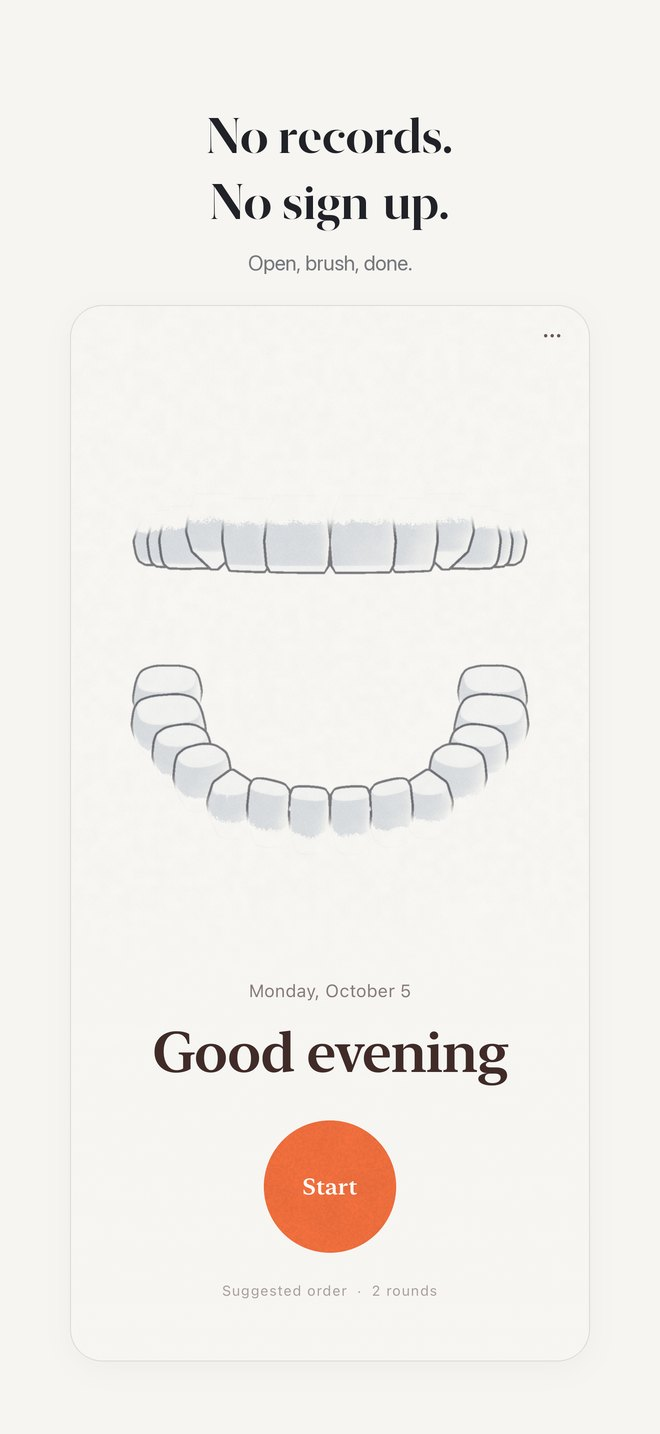
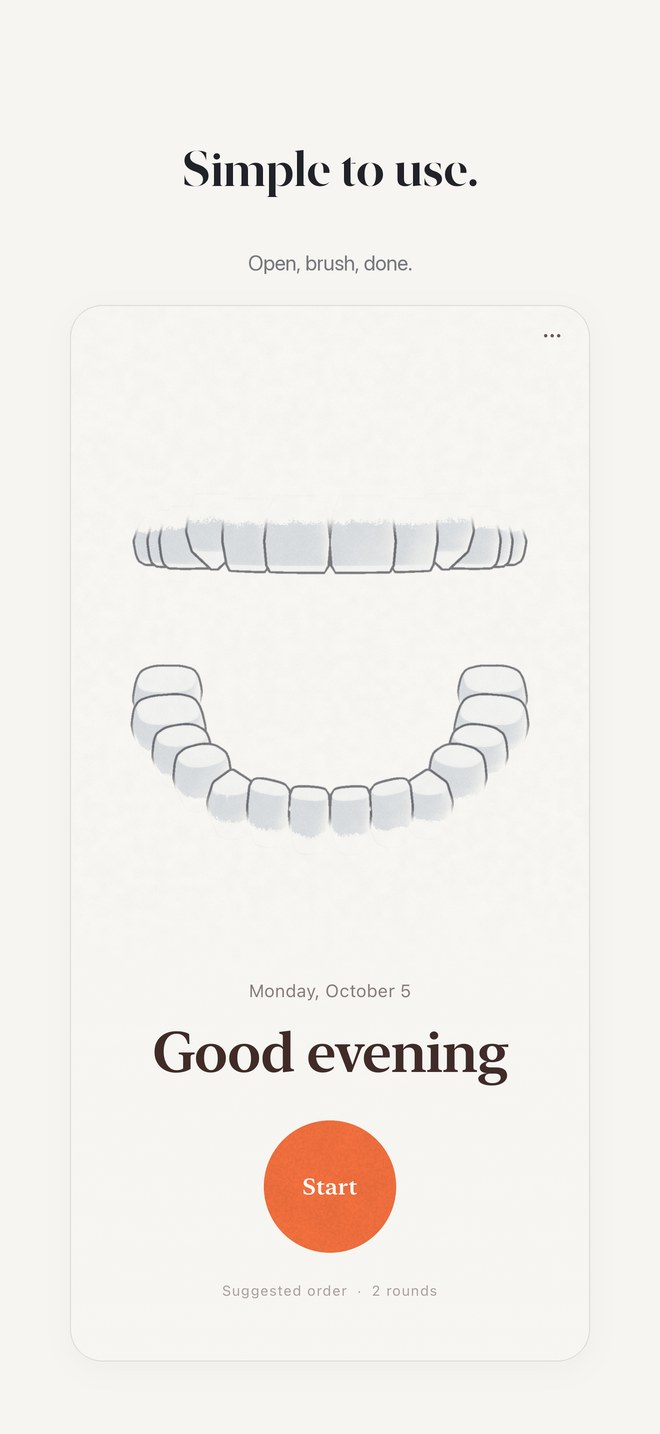
Add files via upload

Changed region(s): [[0.2727, 0.0614, 0.697, 0.1841]]

diff --git a/support.html b/support.html
@@ -4,9 +4,9 @@
 <meta charset="utf-8">
 <meta name="viewport" content="width=device-width, initial-scale=1">
 <title>サポート — ハミガ記</title>
-<meta name="description" content="どこまでみがいたかを覚えておく歯みがきアプリ。1か所ずつ、きまった時間でつぎへ。記録なし、ログインなし。">
+<meta name="description" content="どこまでみがいたかを覚えておく歯みがきアプリ。1か所ずつ、きまった時間でつぎへ。">
 <meta property="og:title" content="サポート — ハミガ記">
-<meta property="og:description" content="どこまでみがいたかを覚えておく歯みがきアプリ。1か所ずつ、きまった時間でつぎへ。記録なし、ログインなし。">
+<meta property="og:description" content="どこまでみがいたかを覚えておく歯みがきアプリ。1か所ずつ、きまった時間でつぎへ。">
 <meta property="og:image" content="assets/ja_1.jpg">
 <link rel="icon" href="assets/favicon.png">
 <link rel="apple-touch-icon" href="assets/apple-touch-icon.png">
@@ -17,14 +17,14 @@
 <header class="top"><a class="brand" href="./"><img src="assets/icon_360.png" alt="">ハミガ記</a><nav><a href="support.html">サポート</a><a href="privacy.html">プライバシー</a><a href="en/">English</a></nav></header>
 <article class="doc">
 <h1>サポート</h1>
-<p>ハミガ記についてのよくある質問です。ほかにお困りのことがあれば、下のメールまでご連絡ください。</p>
-<dl><dt>タイマーの時間を変えたい</dt><dd>画面の右上「…」から設定を開き、「タイマー」の − と ＋ で、1か所 5〜60秒の間で変えられます。タイマーを使わない時は「自動でつぎの場所へ」を切ってください。</dd><dt>音が鳴らない／鳴らしたくない</dt><dd>設定の「合図」で「ならす」「ふるえる」を切り替えられます。端末の音量も確かめてください。</dd><dt>みがく順番を変えたい</dt><dd>設定の「みがく順番」で「おまかせ」と「自分できめる」を選べます。自分の順番は「順番をきめなおす」から作り直せます。</dd><dt>途中でやめたい</dt><dd>左上の × を押すと「やめる」に変わります。もう一度押すと、はじめの画面にもどります。</dd><dt>英語で使いたい</dt><dd>設定のいちばん下の「ことば」で English を選べます。</dd><dt>記録は残りますか</dt><dd>残りません。みがき終わったら、それでおしまいです。</dd></dl>
+<p>ハミガ記に関するよくあるご質問です。解決しない場合は、下記のお問い合わせ先までご連絡ください。</p>
+<dl><dt>タイマーの時間を変更するには</dt><dd>画面右上の「…」から設定を開き、「タイマー」の「−」「＋」で、1か所あたり5秒から60秒の範囲で変更できます。タイマーを使用しない場合は、「自動でつぎの場所へ」をオフにしてください。</dd><dt>合図の音や振動を止めるには</dt><dd>設定の「合図」で、「ならす」「ふるえる」をそれぞれオフにできます。音が鳴らない場合は、端末の音量もご確認ください。</dd><dt>みがく順番を変更するには</dt><dd>設定の「みがく順番」で、「おまかせ」または「自分できめる」を選択できます。ご自身で決めた順番は、「順番をきめなおす」から作り直すことができます。</dd><dt>途中でやめるには</dt><dd>画面左上の「×」を押すと「やめる」に変わります。もう一度押すと、はじめの画面に戻ります。</dd><dt>通知を止めるには</dt><dd>端末の設定アプリの「通知」から、「ハミガ記」の通知をオフにしてください。</dd><dt>表示言語を英語にするには</dt><dd>設定の最下部にある「ことば」で「English」を選択してください。</dd><dt>利用の記録は残りますか</dt><dd>本アプリには、利用の履歴を表示する機能はありません。</dd></dl>
 <h2>ご利用にあたって</h2>
-<p>本アプリは、歯みがきの場所と時間の目安をお知らせするものです。汚れの落ち具合を確かめたり、歯や歯ぐきの状態を判断したりするものではありません。歯や歯ぐきのことで気になることがある時は、歯科医院にご相談ください。</p>
+<p>本アプリは、歯みがきの場所と時間の目安をお知らせするものです。汚れの落ち具合を確認したり、歯や歯ぐきの状態を判断したりするものではありません。歯や歯ぐきについて気になる点がある場合は、歯科医院にご相談ください。</p>
 <h2>お問い合わせ</h2>
-<p><a href="mailto:ys.andcraft@gmail.com">ys.andcraft@gmail.com</a></p>
+<p>Ys andcraft<br><a href="mailto:ys.andcraft@gmail.com">ys.andcraft@gmail.com</a></p>
 </article>
-<footer><a href="support.html">サポート</a><a href="privacy.html">プライバシーポリシー</a><a href="press.html">報道関係の方へ</a><br>© 2026 ハミガ記</footer>
+<footer><a href="support.html">サポート</a><a href="privacy.html">プライバシーポリシー</a><br>© 2026 ハミガ記</footer>
 </div>
 </body>
 </html>

diff --git a/privacy.html b/privacy.html
@@ -4,9 +4,9 @@
 <meta charset="utf-8">
 <meta name="viewport" content="width=device-width, initial-scale=1">
 <title>プライバシーポリシー — ハミガ記</title>
-<meta name="description" content="どこまでみがいたかを覚えておく歯みがきアプリ。1か所ずつ、きまった時間でつぎへ。記録なし、ログインなし。">
+<meta name="description" content="どこまでみがいたかを覚えておく歯みがきアプリ。1か所ずつ、きまった時間でつぎへ。">
 <meta property="og:title" content="プライバシーポリシー — ハミガ記">
-<meta property="og:description" content="どこまでみがいたかを覚えておく歯みがきアプリ。1か所ずつ、きまった時間でつぎへ。記録なし、ログインなし。">
+<meta property="og:description" content="どこまでみがいたかを覚えておく歯みがきアプリ。1か所ずつ、きまった時間でつぎへ。">
 <meta property="og:image" content="assets/ja_1.jpg">
 <link rel="icon" href="assets/favicon.png">
 <link rel="apple-touch-icon" href="assets/apple-touch-icon.png">
@@ -17,20 +17,22 @@
 <header class="top"><a class="brand" href="./"><img src="assets/icon_360.png" alt="">ハミガ記</a><nav><a href="support.html">サポート</a><a href="privacy.html">プライバシー</a><a href="en/">English</a></nav></header>
 <article class="doc">
 <h1>プライバシーポリシー</h1>
-<p class="meta">最終更新：2026年10月5日</p>
-<p>このページは、ハミガ記（以下「本アプリ」）における情報の取り扱いについて説明するものです。</p>
-<h2>集める情報</h2>
-<p>本アプリは、個人情報を含め、利用者に関する情報を一切集めません。アカウントの登録もありません。</p>
-<h2>端末に保存する情報</h2>
-<p>色・タイマー・みがく回数・合図・みがく順番・ことばの設定は、次に開いた時のために、利用者の端末の中にだけ保存します。外部に送ることはありません。アプリを削除すると、これらの設定も消えます。</p>
-<h2>通信・広告・第三者のサービス</h2>
-<p>本アプリは、通信を行いません。広告、利用状況の解析、第三者のサービスも使っていません。設定画面からこのページなどを開く時は、ブラウザで表示します。</p>
-<h2>このポリシーの変更</h2>
-<p>内容を変更する時は、このページを更新します。</p>
-<h2>提供者・お問い合わせ</h2>
-<p>Soichiro Yokokawa<br><a href="mailto:ys.andcraft@gmail.com">ys.andcraft@gmail.com</a></p>
+<p class="meta">最終更新日：2026年10月12日</p>
+<p>Ys andcraft（以下「当方」）は、iPhone 向けアプリケーション「ハミガ記」（以下「本アプリ」）における利用者の情報の取り扱いについて、以下のとおり定めます。</p>
+<h2>1. 情報の収集</h2>
+<p>本アプリは、氏名、メールアドレス、位置情報その他の個人情報を含め、利用者に関する情報を収集しません。また、本アプリの利用にあたり、アカウントの登録は必要ありません。</p>
+<h2>2. 端末内に保存する情報</h2>
+<p>本アプリは、その動作に必要な情報（本アプリの設定、および通知の時刻を定めるための本アプリの利用時刻）を、利用者の端末内にのみ保存します。これらの情報を外部へ送信することはありません。これらの情報は、本アプリを端末から削除することにより消去されます。</p>
+<h2>3. 通知</h2>
+<p>本アプリは、利用者が許可した場合に限り、端末内で作成した通知を表示します。通知の許可は、端末の設定アプリからいつでも変更できます。</p>
+<h2>4. 外部との通信および第三者のサービス</h2>
+<p>本アプリは、外部との通信を行いません。また、広告、利用状況の解析その他の第三者のサービスを利用していません。なお、本アプリの設定画面から本ポリシー等のウェブページを開く場合、当該ページは利用者の端末のブラウザで表示されます。</p>
+<h2>5. 本ポリシーの変更</h2>
+<p>当方は、必要に応じて本ポリシーを変更することがあります。変更後の内容は、本ページに掲載した時点から効力を生じるものとします。</p>
+<h2>6. お問い合わせ</h2>
+<p>本ポリシーに関するお問い合わせは、以下までご連絡ください。<br>Ys andcraft<br><a href="mailto:ys.andcraft@gmail.com">ys.andcraft@gmail.com</a></p>
 </article>
-<footer><a href="support.html">サポート</a><a href="privacy.html">プライバシーポリシー</a><a href="press.html">報道関係の方へ</a><br>© 2026 ハミガ記</footer>
+<footer><a href="support.html">サポート</a><a href="privacy.html">プライバシーポリシー</a><br>© 2026 ハミガ記</footer>
 </div>
 </body>
 </html>

diff --git a/en/support.html b/en/support.html
@@ -4,9 +4,9 @@
 <meta charset="utf-8">
 <meta name="viewport" content="width=device-width, initial-scale=1">
 <title>Support — BrushMark</title>
-<meta name="description" content="A toothbrushing app that remembers where you&#x27;ve brushed. One spot at a time, then on to the next. No records, no sign-up.">
+<meta name="description" content="A toothbrushing app that remembers where you&#x27;ve brushed. One spot at a time, then on to the next.">
 <meta property="og:title" content="Support — BrushMark">
-<meta property="og:description" content="A toothbrushing app that remembers where you&#x27;ve brushed. One spot at a time, then on to the next. No records, no sign-up.">
+<meta property="og:description" content="A toothbrushing app that remembers where you&#x27;ve brushed. One spot at a time, then on to the next.">
 <meta property="og:image" content="../assets/en_1.jpg">
 <link rel="icon" href="../assets/favicon.png">
 <link rel="apple-touch-icon" href="../assets/apple-touch-icon.png">
@@ -17,14 +17,14 @@
 <header class="top"><a class="brand" href="./"><img src="../assets/icon_360.png" alt="">BrushMark</a><nav><a href="support.html">Support</a><a href="privacy.html">Privacy</a><a href="../">日本語</a></nav></header>
 <article class="doc">
 <h1>Support</h1>
-<p>Common questions about BrushMark. For anything else, please email us.</p>
-<dl><dt>How do I change the timer?</dt><dd>Open Settings from the ⋯ at the top right. Under Timer, use − and + to choose 5 to 60 seconds per spot. To brush without the timer, turn off "Move on automatically".</dd><dt>I can't hear the sound / I don't want it</dt><dd>Turn Sound and Vibrate on or off under Signals in Settings. Please also check your device volume.</dd><dt>How do I change the brushing order?</dt><dd>Under Brushing order in Settings, choose Suggested or Set my own. You can redo your own order with "Set it again".</dd><dt>How do I stop in the middle?</dt><dd>Tap the × at the top left; it turns into Stop. Tap again to go back to the start screen.</dd><dt>Can I use it in Japanese?</dt><dd>Yes. Choose 日本語 under Language at the bottom of Settings.</dd><dt>Does it keep records?</dt><dd>No. When you're done, you're done.</dd></dl>
-<h2>About this app</h2>
-<p>BrushMark shows you where to brush and for how long, as a guide. It does not check how clean your teeth are or assess the health of your teeth or gums. If you have any concerns about your teeth or gums, please see a dentist.</p>
+<p>Frequently asked questions about BrushMark. If your question is not answered here, please contact us at the address below.</p>
+<dl><dt>How do I change the timer?</dt><dd>Open Settings from the "⋯" button at the top right. Under Timer, use "−" and "+" to set between 5 and 60 seconds per spot. To brush without the timer, turn off "Move on automatically".</dd><dt>How do I turn off sounds or vibration?</dt><dd>Under Signals in Settings, turn off Sound and/or Vibrate. If you cannot hear any sound, please also check your device's volume.</dd><dt>How do I change the brushing order?</dt><dd>Under Brushing order in Settings, select Suggested or Set my own. You can recreate your own order with "Set it again".</dd><dt>How do I stop partway through?</dt><dd>Tap the "×" at the top left; it changes to "Stop". Tap it again to return to the start screen.</dd><dt>How do I turn off reminders?</dt><dd>Turn off notifications for BrushMark under Notifications in your device's Settings app.</dd><dt>How do I switch the language to Japanese?</dt><dd>Select "日本語" under Language at the bottom of Settings.</dd><dt>Does the App keep a history?</dt><dd>The App has no feature for displaying a usage history.</dd></dl>
+<h2>About This App</h2>
+<p>BrushMark provides guidance on where and for how long to brush. It does not check how clean your teeth are, nor does it assess the condition of your teeth or gums. If you have any concerns about your teeth or gums, please consult a dentist.</p>
 <h2>Contact</h2>
-<p><a href="mailto:ys.andcraft@gmail.com">ys.andcraft@gmail.com</a></p>
+<p>Ys andcraft<br><a href="mailto:ys.andcraft@gmail.com">ys.andcraft@gmail.com</a></p>
 </article>
-<footer><a href="support.html">Support</a><a href="privacy.html">Privacy Policy</a><a href="press.html">Press</a><br>© 2026 BrushMark</footer>
+<footer><a href="support.html">Support</a><a href="privacy.html">Privacy Policy</a><br>© 2026 BrushMark</footer>
 </div>
 </body>
 </html>

diff --git a/en/privacy.html b/en/privacy.html
@@ -4,9 +4,9 @@
 <meta charset="utf-8">
 <meta name="viewport" content="width=device-width, initial-scale=1">
 <title>Privacy Policy — BrushMark</title>
-<meta name="description" content="A toothbrushing app that remembers where you&#x27;ve brushed. One spot at a time, then on to the next. No records, no sign-up.">
+<meta name="description" content="A toothbrushing app that remembers where you&#x27;ve brushed. One spot at a time, then on to the next.">
 <meta property="og:title" content="Privacy Policy — BrushMark">
-<meta property="og:description" content="A toothbrushing app that remembers where you&#x27;ve brushed. One spot at a time, then on to the next. No records, no sign-up.">
+<meta property="og:description" content="A toothbrushing app that remembers where you&#x27;ve brushed. One spot at a time, then on to the next.">
 <meta property="og:image" content="../assets/en_1.jpg">
 <link rel="icon" href="../assets/favicon.png">
 <link rel="apple-touch-icon" href="../assets/apple-touch-icon.png">
@@ -17,20 +17,22 @@
 <header class="top"><a class="brand" href="./"><img src="../assets/icon_360.png" alt="">BrushMark</a><nav><a href="support.html">Support</a><a href="privacy.html">Privacy</a><a href="../">日本語</a></nav></header>
 <article class="doc">
 <h1>Privacy Policy</h1>
-<p class="meta">Last updated: October 5, 2026</p>
-<p>This page explains how BrushMark ("the app") handles information.</p>
-<h2>Information we collect</h2>
-<p>The app does not collect any information about you, including personal information. There is no account.</p>
-<h2>Information stored on your device</h2>
-<p>Your settings (color, timer, rounds, signals, brushing order and language) are saved only on your device so they are there next time. They are never sent anywhere. Deleting the app also deletes these settings.</p>
-<h2>Network, ads and third-party services</h2>
-<p>The app does not connect to the internet. It uses no ads, no analytics and no third-party services. Pages such as this one, when opened from Settings, are shown in your browser.</p>
-<h2>Changes to this policy</h2>
-<p>If this policy changes, we will update this page.</p>
-<h2>Developer and contact</h2>
-<p>Soichiro Yokokawa<br><a href="mailto:ys.andcraft@gmail.com">ys.andcraft@gmail.com</a></p>
+<p class="meta">Last updated: October 12, 2026</p>
+<p>This Privacy Policy describes how Ys andcraft ("we") handles information in the iPhone application BrushMark (the "App").</p>
+<h2>1. Information We Collect</h2>
+<p>The App does not collect any information about its users, including personal information such as names, email addresses or location. No account is required to use the App.</p>
+<h2>2. Information Stored on Your Device</h2>
+<p>The App stores the information required for its operation (the App's settings, and the times at which the App is used, in order to determine when to show reminders) solely on your device. This information is not transmitted to any external party. It is deleted when the App is removed from your device.</p>
+<h2>3. Notifications</h2>
+<p>The App displays notifications created on your device only if you have granted permission. You may change this permission at any time in your device's Settings app.</p>
+<h2>4. Network Communication and Third-Party Services</h2>
+<p>The App does not communicate with any external server, and it does not use advertising, analytics or any other third-party services. Web pages such as this Privacy Policy, when opened from the App's settings, are displayed in your device's browser.</p>
+<h2>5. Changes to This Policy</h2>
+<p>We may revise this Privacy Policy as necessary. Any revision takes effect when it is posted on this page.</p>
+<h2>6. Contact</h2>
+<p>For inquiries regarding this Privacy Policy, please contact:<br>Ys andcraft<br><a href="mailto:ys.andcraft@gmail.com">ys.andcraft@gmail.com</a></p>
 </article>
-<footer><a href="support.html">Support</a><a href="privacy.html">Privacy Policy</a><a href="press.html">Press</a><br>© 2026 BrushMark</footer>
+<footer><a href="support.html">Support</a><a href="privacy.html">Privacy Policy</a><br>© 2026 BrushMark</footer>
 </div>
 </body>
 </html>

diff --git a/index.html b/index.html
@@ -4,9 +4,9 @@
 <meta charset="utf-8">
 <meta name="viewport" content="width=device-width, initial-scale=1">
 <title>ハミガ記 — みがいたところを忘れない歯みがき</title>
-<meta name="description" content="どこまでみがいたかを覚えておく歯みがきアプリ。1か所ずつ、きまった時間でつぎへ。記録なし、ログインなし。">
+<meta name="description" content="どこまでみがいたかを覚えておく歯みがきアプリ。1か所ずつ、きまった時間でつぎへ。">
 <meta property="og:title" content="ハミガ記 — みがいたところを忘れない歯みがき">
-<meta property="og:description" content="どこまでみがいたかを覚えておく歯みがきアプリ。1か所ずつ、きまった時間でつぎへ。記録なし、ログインなし。">
+<meta property="og:description" content="どこまでみがいたかを覚えておく歯みがきアプリ。1か所ずつ、きまった時間でつぎへ。">
 <meta property="og:image" content="assets/ja_1.jpg">
 <link rel="icon" href="assets/favicon.png">
 <link rel="apple-touch-icon" href="assets/apple-touch-icon.png">
@@ -22,8 +22,8 @@
 <span class="badge soon">まもなく App Store で公開</span>
 </section>
 <section class="shots"><img src="assets/ja_1.jpg" alt="" loading="lazy"><img src="assets/ja_2.jpg" alt="" loading="lazy"><img src="assets/ja_3.jpg" alt="" loading="lazy"><img src="assets/ja_4.jpg" alt="" loading="lazy"><img src="assets/ja_5.jpg" alt="" loading="lazy"><img src="assets/ja_6.jpg" alt="" loading="lazy"></section>
-<ul class="points"><li>みがいたところに、色がつく。どこまでみがいたか、ひと目でわかる。</li><li>1か所ずつ、きまった時間でつぎへ。時間は 5〜60秒から選べる。</li><li>音と振動で知らせるので、画面を見なくても大丈夫。</li><li>みがく順番は、おまかせでも、自分でも。</li><li>記録・ログイン・広告なし。データは集めません。</li></ul>
-<footer><a href="support.html">サポート</a><a href="privacy.html">プライバシーポリシー</a><a href="press.html">報道関係の方へ</a><br>© 2026 ハミガ記</footer>
+<ul class="points"><li>みがいたところに、色がつく。どこまでみがいたか、ひと目でわかる。</li><li>1か所ずつ、きまった時間でつぎへ。時間は 5〜60秒から選べる。</li><li>音と振動で知らせるので、画面を見なくても大丈夫。</li><li>みがく順番は、おまかせでも、自分でも。</li><li>シンプルな使い心地。ひらいて、みがいて、おしまい。</li></ul>
+<footer><a href="support.html">サポート</a><a href="privacy.html">プライバシーポリシー</a><br>© 2026 ハミガ記</footer>
 </div>
 </body>
 </html>

diff --git a/en/index.html b/en/index.html
@@ -4,9 +4,9 @@
 <meta charset="utf-8">
 <meta name="viewport" content="width=device-width, initial-scale=1">
 <title>BrushMark — Remember every spot you&#x27;ve brushed</title>
-<meta name="description" content="A toothbrushing app that remembers where you&#x27;ve brushed. One spot at a time, then on to the next. No records, no sign-up.">
+<meta name="description" content="A toothbrushing app that remembers where you&#x27;ve brushed. One spot at a time, then on to the next.">
 <meta property="og:title" content="BrushMark — Remember every spot you&#x27;ve brushed">
-<meta property="og:description" content="A toothbrushing app that remembers where you&#x27;ve brushed. One spot at a time, then on to the next. No records, no sign-up.">
+<meta property="og:description" content="A toothbrushing app that remembers where you&#x27;ve brushed. One spot at a time, then on to the next.">
 <meta property="og:image" content="../assets/en_1.jpg">
 <link rel="icon" href="../assets/favicon.png">
 <link rel="apple-touch-icon" href="../assets/apple-touch-icon.png">
@@ -22,8 +22,8 @@
 <span class="badge soon">Coming soon to the App Store</span>
 </section>
 <section class="shots"><img src="../assets/en_1.jpg" alt="" loading="lazy"><img src="../assets/en_2.jpg" alt="" loading="lazy"><img src="../assets/en_3.jpg" alt="" loading="lazy"><img src="../assets/en_4.jpg" alt="" loading="lazy"><img src="../assets/en_5.jpg" alt="" loading="lazy"><img src="../assets/en_6.jpg" alt="" loading="lazy"></section>
-<ul class="points"><li>Brushed spots get colored in, so you can see where you've been at a glance.</li><li>One spot at a time, then on to the next. Choose 5 to 60 seconds per spot.</li><li>A sound and a buzz tell you to move on, so you don't need to watch the screen.</li><li>Use the suggested order, or set your own.</li><li>No records, no sign-up, no ads. No data collected.</li></ul>
-<footer><a href="support.html">Support</a><a href="privacy.html">Privacy Policy</a><a href="press.html">Press</a><br>© 2026 BrushMark</footer>
+<ul class="points"><li>Brushed spots get colored in, so you can see where you've been at a glance.</li><li>One spot at a time, then on to the next. Choose 5 to 60 seconds per spot.</li><li>A sound and a buzz tell you to move on, so you don't need to watch the screen.</li><li>Use the suggested order, or set your own.</li><li>Simple to use. Open, brush, done.</li></ul>
+<footer><a href="support.html">Support</a><a href="privacy.html">Privacy Policy</a><br>© 2026 BrushMark</footer>
 </div>
 </body>
 </html>
